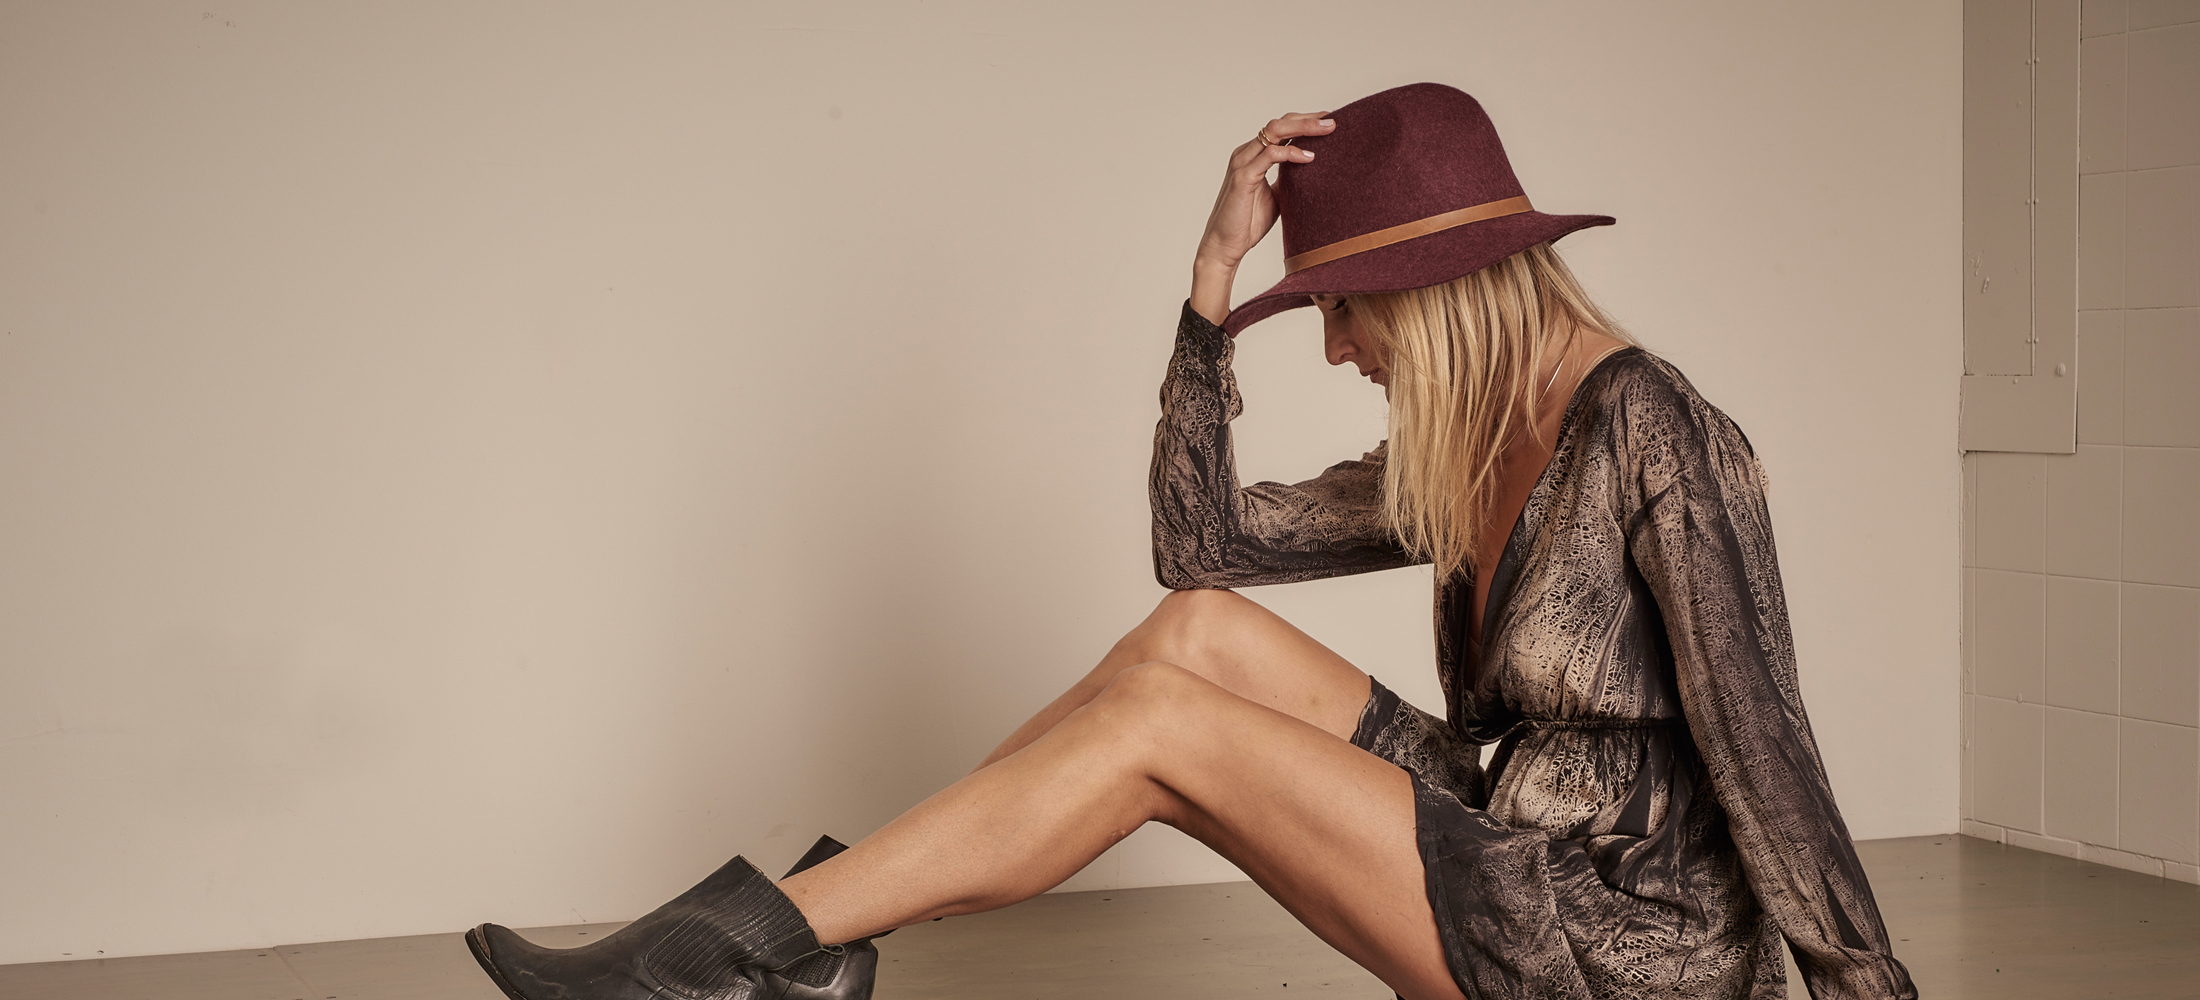
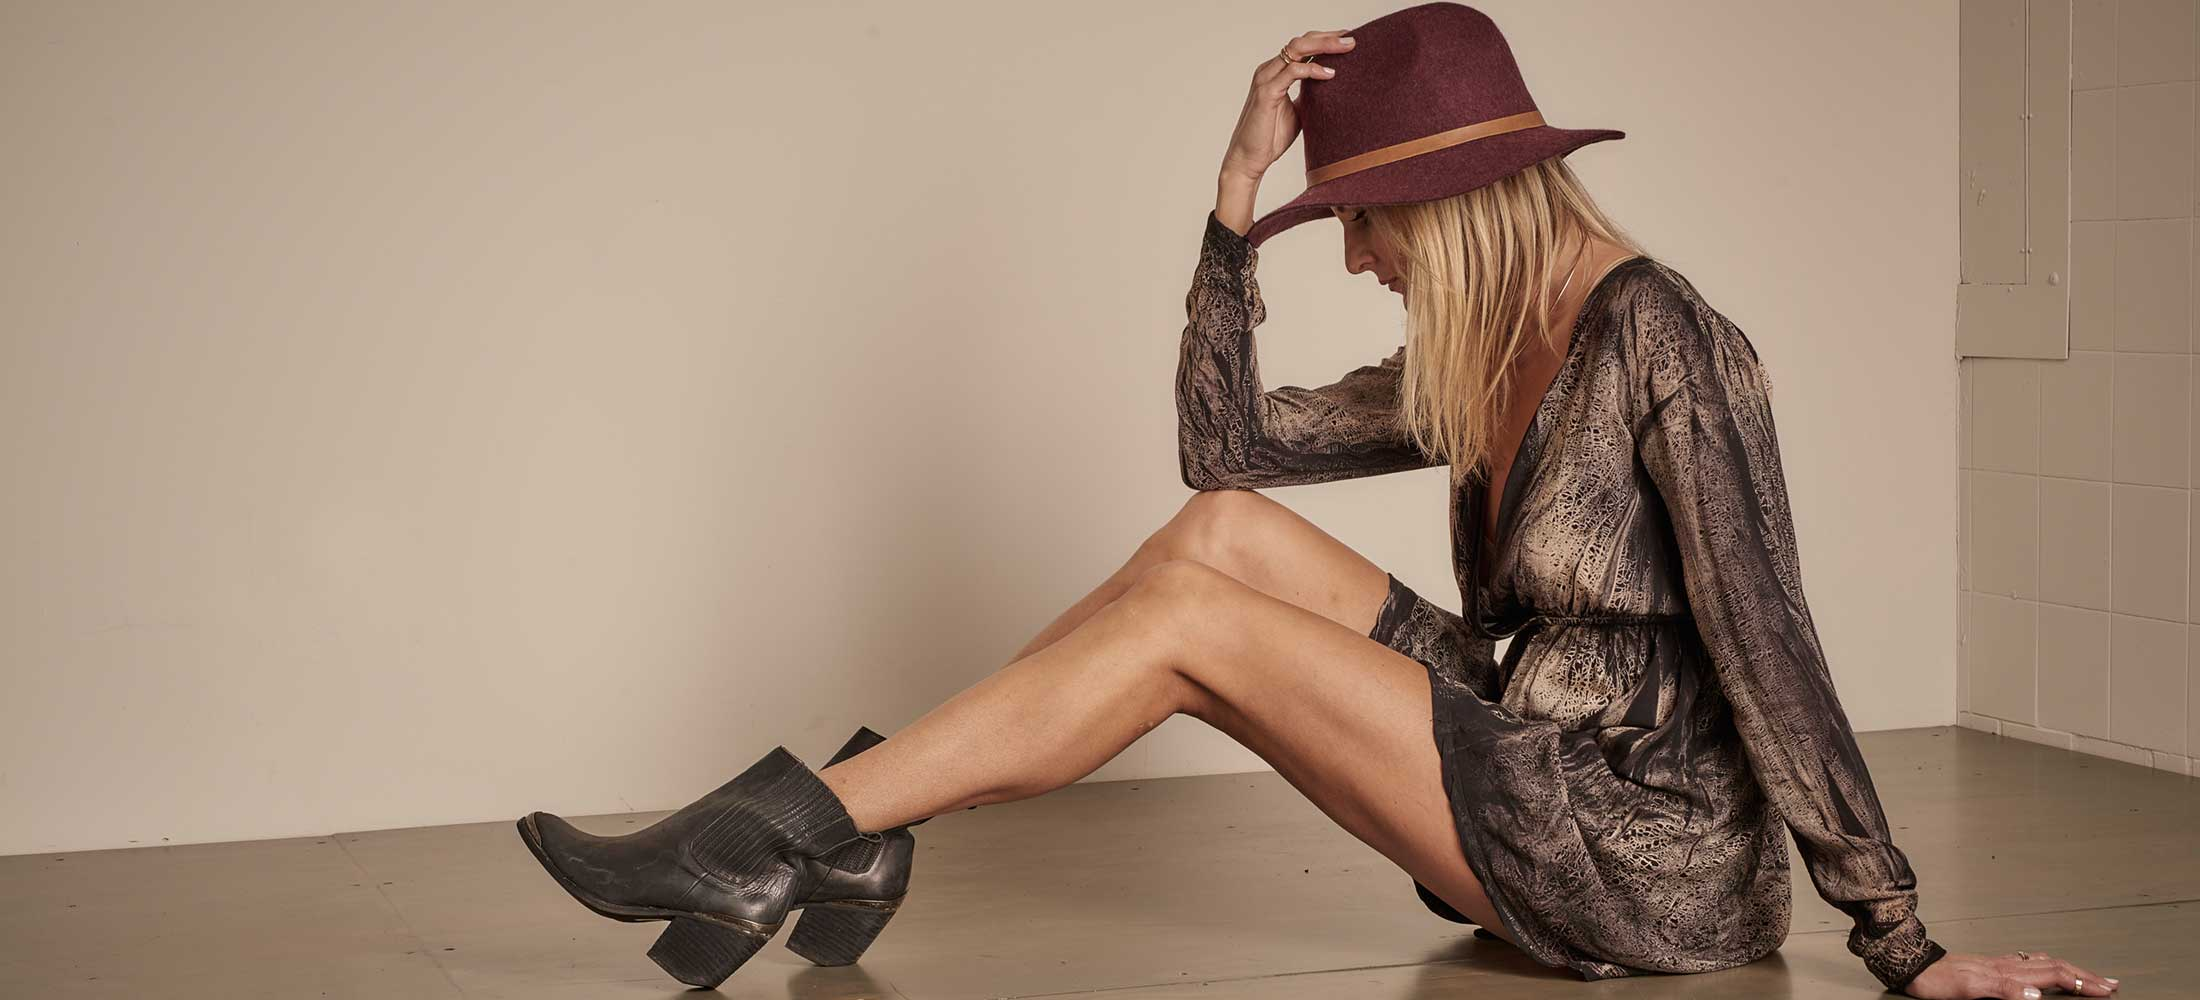
add new images for onebxwd and betro

diff --git a/style.css b/style.css
@@ -1014,7 +1014,7 @@ html, body {
 
 /* line 23, sass/_partials/_footer.scss */
 .footer-2 {
-  background: #2a2a2a;
+  background: #000;
   padding: 2.5em 1.25em 1.25em;
   width: 100%;
 }
@@ -1239,40 +1239,45 @@ section.module.parallax-2 {
 
 /* line 84, sass/_partials/_parallax.scss */
 section.module.parallax-3 {
-  background-image: url("images/brand/ONE_BXWD_main.jpg");
+  background-image: url("images/brand/onebxwd_scroll.jpg");
 }
 
 /* line 87, sass/_partials/_parallax.scss */
+section.module.parallax-3bxw {
+  background-image: url("images/brand/ONE_BXWD_main.jpg");
+}
+
+/* line 90, sass/_partials/_parallax.scss */
 section.module.parallax-4 {
   background-image: url("images/brand/pasion_main.jpg");
 }
 
-/* line 90, sass/_partials/_parallax.scss */
+/* line 93, sass/_partials/_parallax.scss */
 section.module.parallax-4-pt {
   background-image: url("images/brand/pasion_scroll.jpg");
 }
 
-/* line 93, sass/_partials/_parallax.scss */
+/* line 96, sass/_partials/_parallax.scss */
 section.module.parallax-5 {
   background-image: url("images/brand/dg_scroll.jpg");
 }
 
-/* line 96, sass/_partials/_parallax.scss */
+/* line 99, sass/_partials/_parallax.scss */
 section.module.parallax-5dg {
   background-image: url("images/brand/dg_scroll_brand.jpg");
 }
 
-/* line 99, sass/_partials/_parallax.scss */
+/* line 102, sass/_partials/_parallax.scss */
 section.module.parallax-bs {
   background-image: url("images/brand/bs_scroll.jpg");
 }
 
-/* line 102, sass/_partials/_parallax.scss */
+/* line 105, sass/_partials/_parallax.scss */
 section.module.parallax-story {
   background-image: url("images/storypage_scroll.jpg");
 }
 
-/* line 106, sass/_partials/_parallax.scss */
+/* line 109, sass/_partials/_parallax.scss */
 div.home_container, div.home_container_onebxwd {
   width: 100%;
   height: 100%;
@@ -1282,31 +1287,31 @@ div.home_container, div.home_container_onebxwd {
   display: table-cell;
   vertical-align: middle;
 }
-/* line 114, sass/_partials/_parallax.scss */
+/* line 117, sass/_partials/_parallax.scss */
 div.home_container img, div.home_container_onebxwd img {
   margin: 0 auto;
 }
 
-/* line 122, sass/_partials/_parallax.scss */
+/* line 125, sass/_partials/_parallax.scss */
 div.home_container_onebxwd img {
   margin: 0px auto 0;
 }
 
-/* line 127, sass/_partials/_parallax.scss */
+/* line 130, sass/_partials/_parallax.scss */
 div.container {
   width: 100%;
   height: 100%;
   margin: 0 auto;
   text-align: center;
 }
-/* line 132, sass/_partials/_parallax.scss */
+/* line 135, sass/_partials/_parallax.scss */
 div.container img {
   margin: 0 auto;
   width: 100%;
   height: auto;
 }
 
-/* line 140, sass/_partials/_parallax.scss */
+/* line 143, sass/_partials/_parallax.scss */
 div.empty_container {
   width: 100%;
   height: auto;
@@ -1315,12 +1320,12 @@ div.empty_container {
   margin: 0 auto;
   text-align: center;
 }
-/* line 147, sass/_partials/_parallax.scss */
+/* line 150, sass/_partials/_parallax.scss */
 div.empty_container img {
   margin: 0 auto;
 }
 
-/* line 153, sass/_partials/_parallax.scss */
+/* line 156, sass/_partials/_parallax.scss */
 .shadowed {
   -webkit-filter: drop-shadow(4px 4px 2px rgba(0, 0, 0, 0.7));
   filter: url(shadow.svg#drop-shadow);
@@ -1329,7 +1334,7 @@ div.empty_container img {
   transition: 0.75s;
 }
 
-/* line 162, sass/_partials/_parallax.scss */
+/* line 165, sass/_partials/_parallax.scss */
 section.module_brand.content_brand {
   background-color: #fff;
   color: #000;
@@ -1338,7 +1343,7 @@ section.module_brand.content_brand {
   z-index: 200;
 }
 
-/* line 170, sass/_partials/_parallax.scss */
+/* line 173, sass/_partials/_parallax.scss */
 div.brand-content-wrapper {
   height: 200px;
   max-width: 68em;
@@ -1353,23 +1358,23 @@ div.brand-content-wrapper:after {
   clear: both;
 }
 
-/* line 175, sass/_partials/_parallax.scss */
+/* line 178, sass/_partials/_parallax.scss */
 div.brand-content {
   display: table-cell;
   vertical-align: middle;
   padding-bottom: 2.0em;
 }
-/* line 179, sass/_partials/_parallax.scss */
+/* line 182, sass/_partials/_parallax.scss */
 div.brand-content p {
   color: #666;
   line-height: 2.85em;
   padding: 0 0.75em;
 }
-/* line 183, sass/_partials/_parallax.scss */
+/* line 186, sass/_partials/_parallax.scss */
 div.brand-content p:first-child {
   margin-top: 0.75em;
 }
-/* line 187, sass/_partials/_parallax.scss */
+/* line 190, sass/_partials/_parallax.scss */
 div.brand-content h1 {
   font-family: "proxima-nova",sans-serif;
   color: #666;
@@ -1378,7 +1383,7 @@ div.brand-content h1 {
   text-transform: uppercase;
 }
 
-/* line 195, sass/_partials/_parallax.scss */
+/* line 198, sass/_partials/_parallax.scss */
 section.module.parallax_brand {
   height: 600px;
   background-position: 50% 50%;
@@ -1390,40 +1395,40 @@ section.module.parallax_brand {
   background-size: cover;
 }
 @media screen and (max-width: 979px) {
-  /* line 195, sass/_partials/_parallax.scss */
+  /* line 198, sass/_partials/_parallax.scss */
   section.module.parallax_brand {
     height: 300px;
   }
 }
 
-/* line 210, sass/_partials/_parallax.scss */
+/* line 213, sass/_partials/_parallax.scss */
 div.abbot_top p {
   margin-bottom: 0;
   padding: 0.5em 2.0em 1.5em;
 }
-/* line 214, sass/_partials/_parallax.scss */
+/* line 217, sass/_partials/_parallax.scss */
 div.abbot_top p:last-child {
   padding: 0.5em 2.0em 2.0em;
 }
 
 @media all and (min-width: 600px) {
-  /* line 220, sass/_partials/_parallax.scss */
+  /* line 223, sass/_partials/_parallax.scss */
   section.module h2 {
     font-size: 42px;
   }
 
-  /* line 223, sass/_partials/_parallax.scss */
+  /* line 226, sass/_partials/_parallax.scss */
   section.module p {
     font-size: 20px;
   }
 
-  /* line 226, sass/_partials/_parallax.scss */
+  /* line 229, sass/_partials/_parallax.scss */
   section.module.parallax h1 {
     font-size: 96px;
   }
 }
 @media all and (min-width: 960px) {
-  /* line 231, sass/_partials/_parallax.scss */
+  /* line 234, sass/_partials/_parallax.scss */
   section.module.parallax h1 {
     font-size: 160px;
   }

diff --git a/sass/_partials/_parallax.scss b/sass/_partials/_parallax.scss
@@ -82,6 +82,9 @@ section.module.parallax-2 {
   background-image: url("images/brand/Brooke_Main.jpg");
 }
 section.module.parallax-3 {
+  background-image: url("images/brand/onebxwd_scroll.jpg");
+}
+section.module.parallax-3bxw {
   background-image: url("images/brand/ONE_BXWD_main.jpg");
 }
 section.module.parallax-4 {

diff --git a/onebxwd_page.php b/onebxwd_page.php
@@ -22,7 +22,7 @@ get_header(); ?>
 			</div>
 		</section>
       
-	      <section class="module parallax_brand parallax-3">
+	      <section class="module parallax_brand parallax-3bxw">
 	        <div class="empty_container">
 	          
 	        </div>
